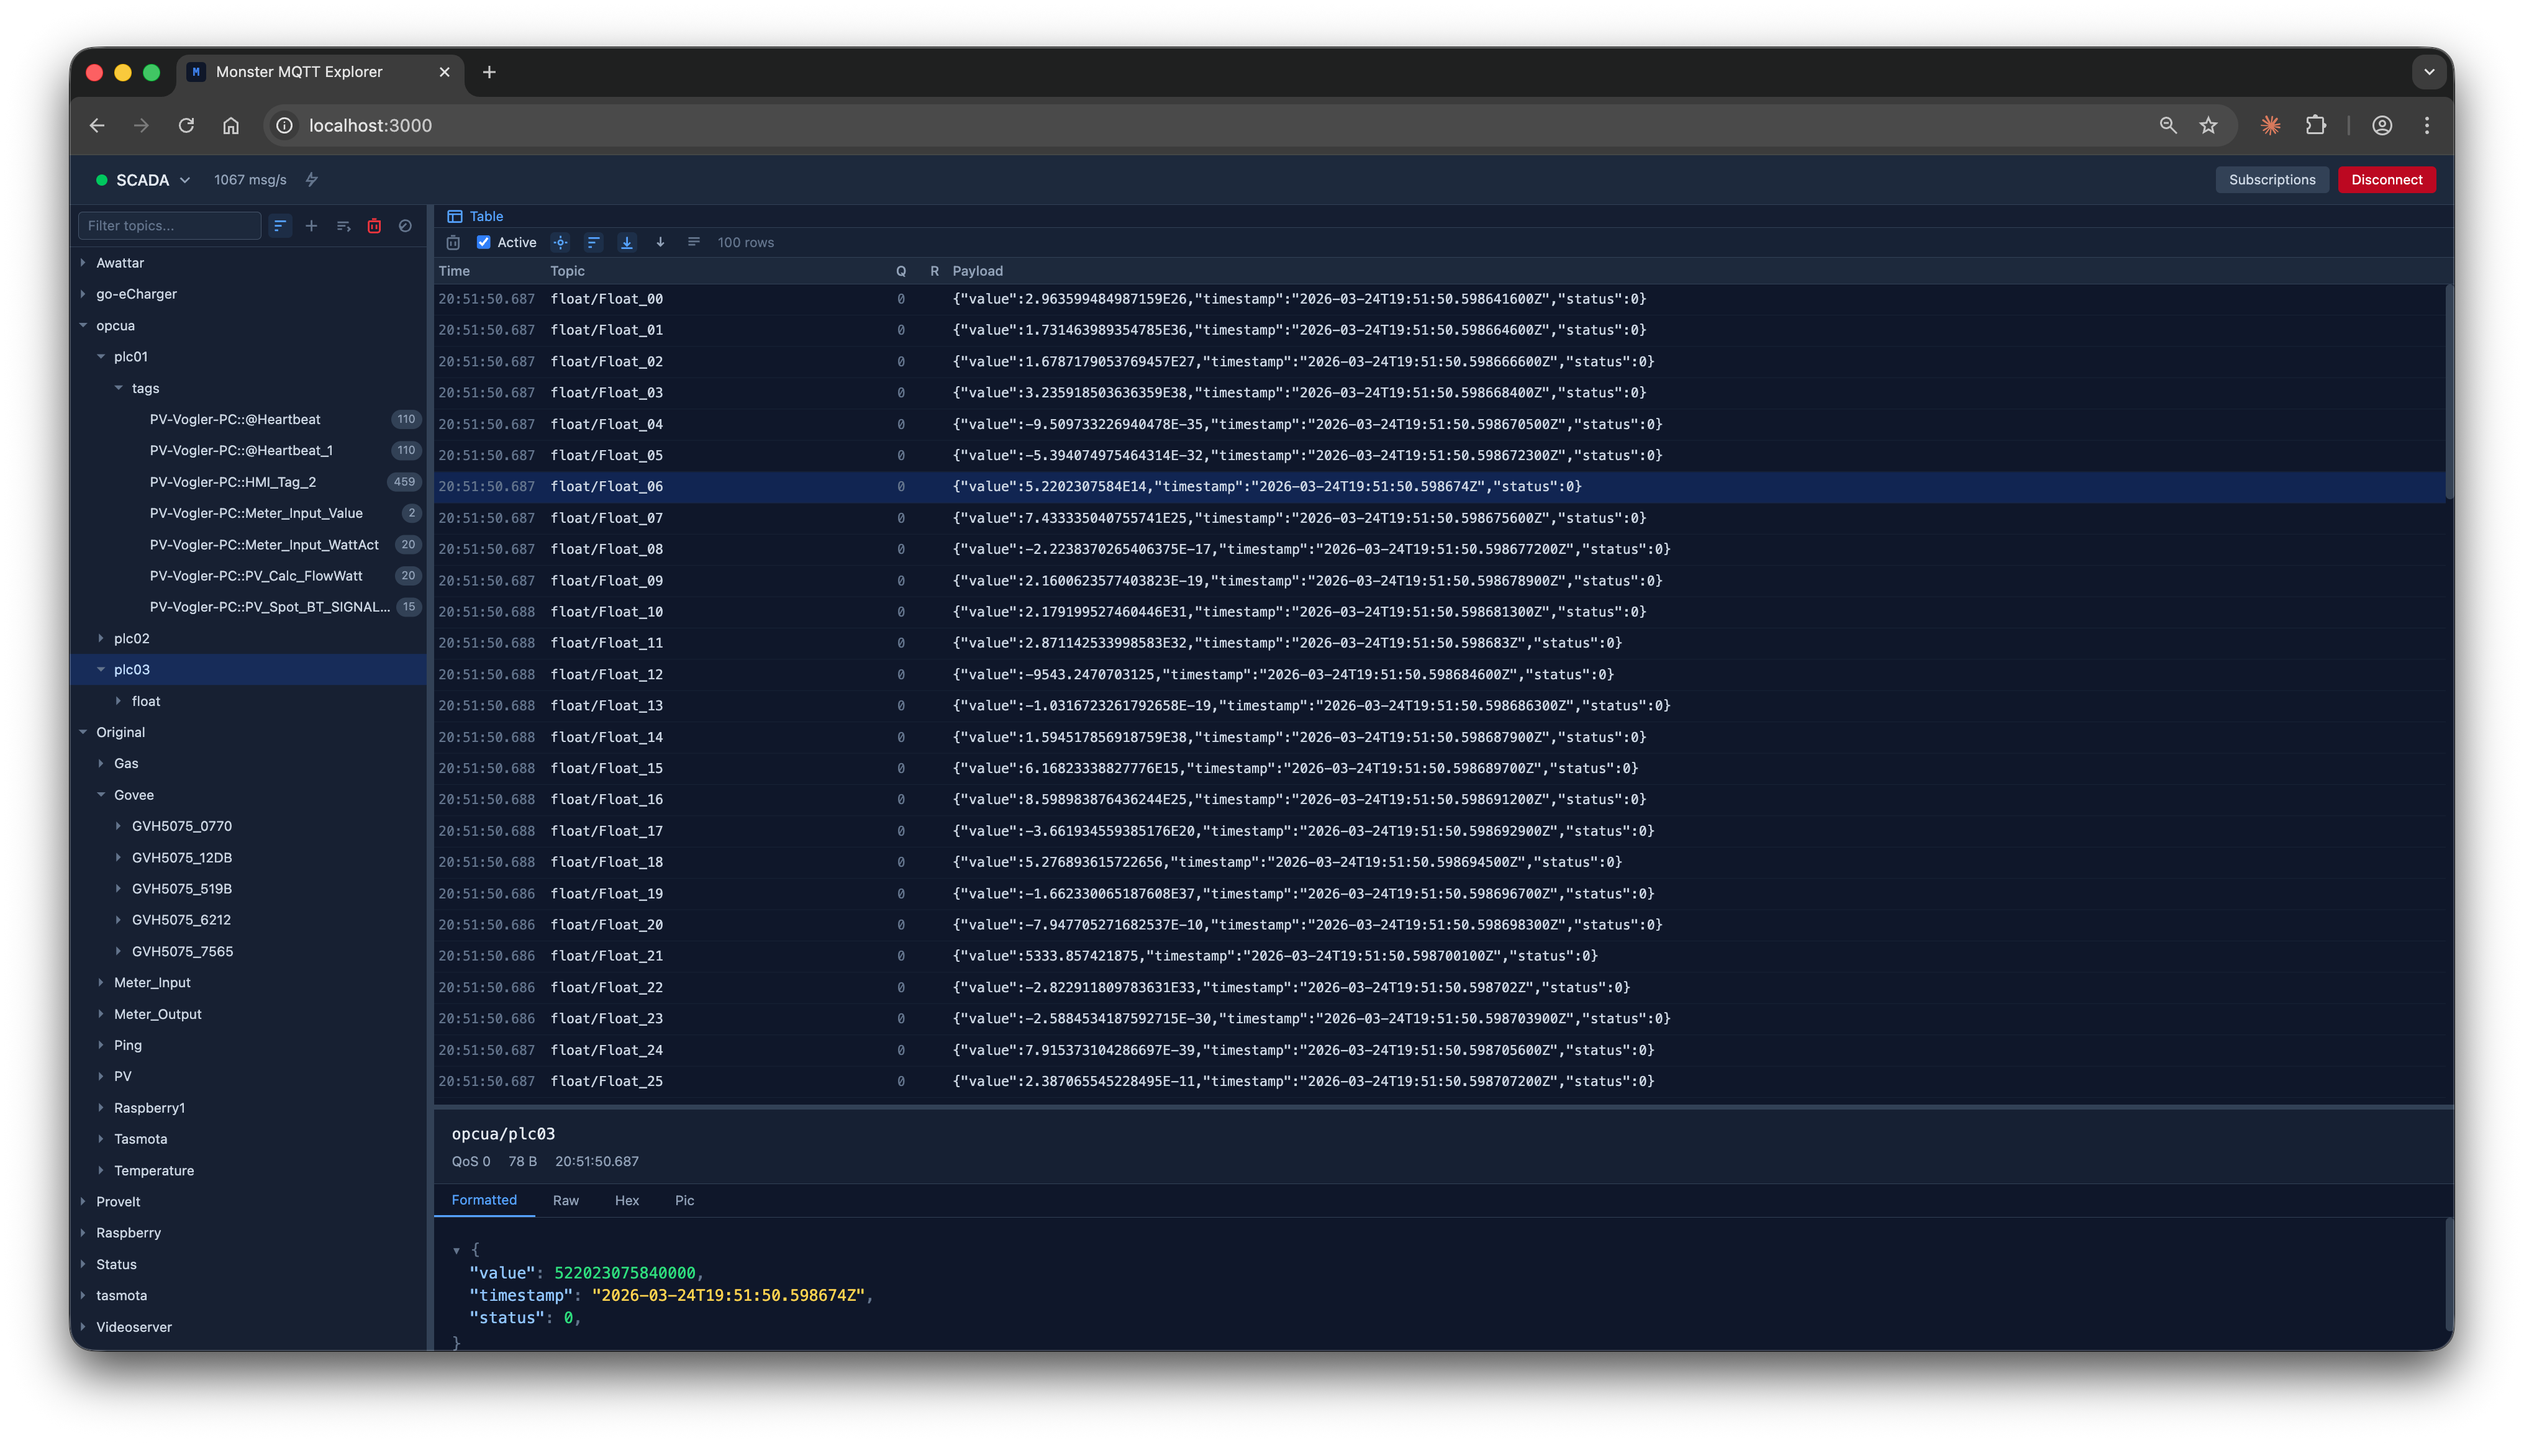
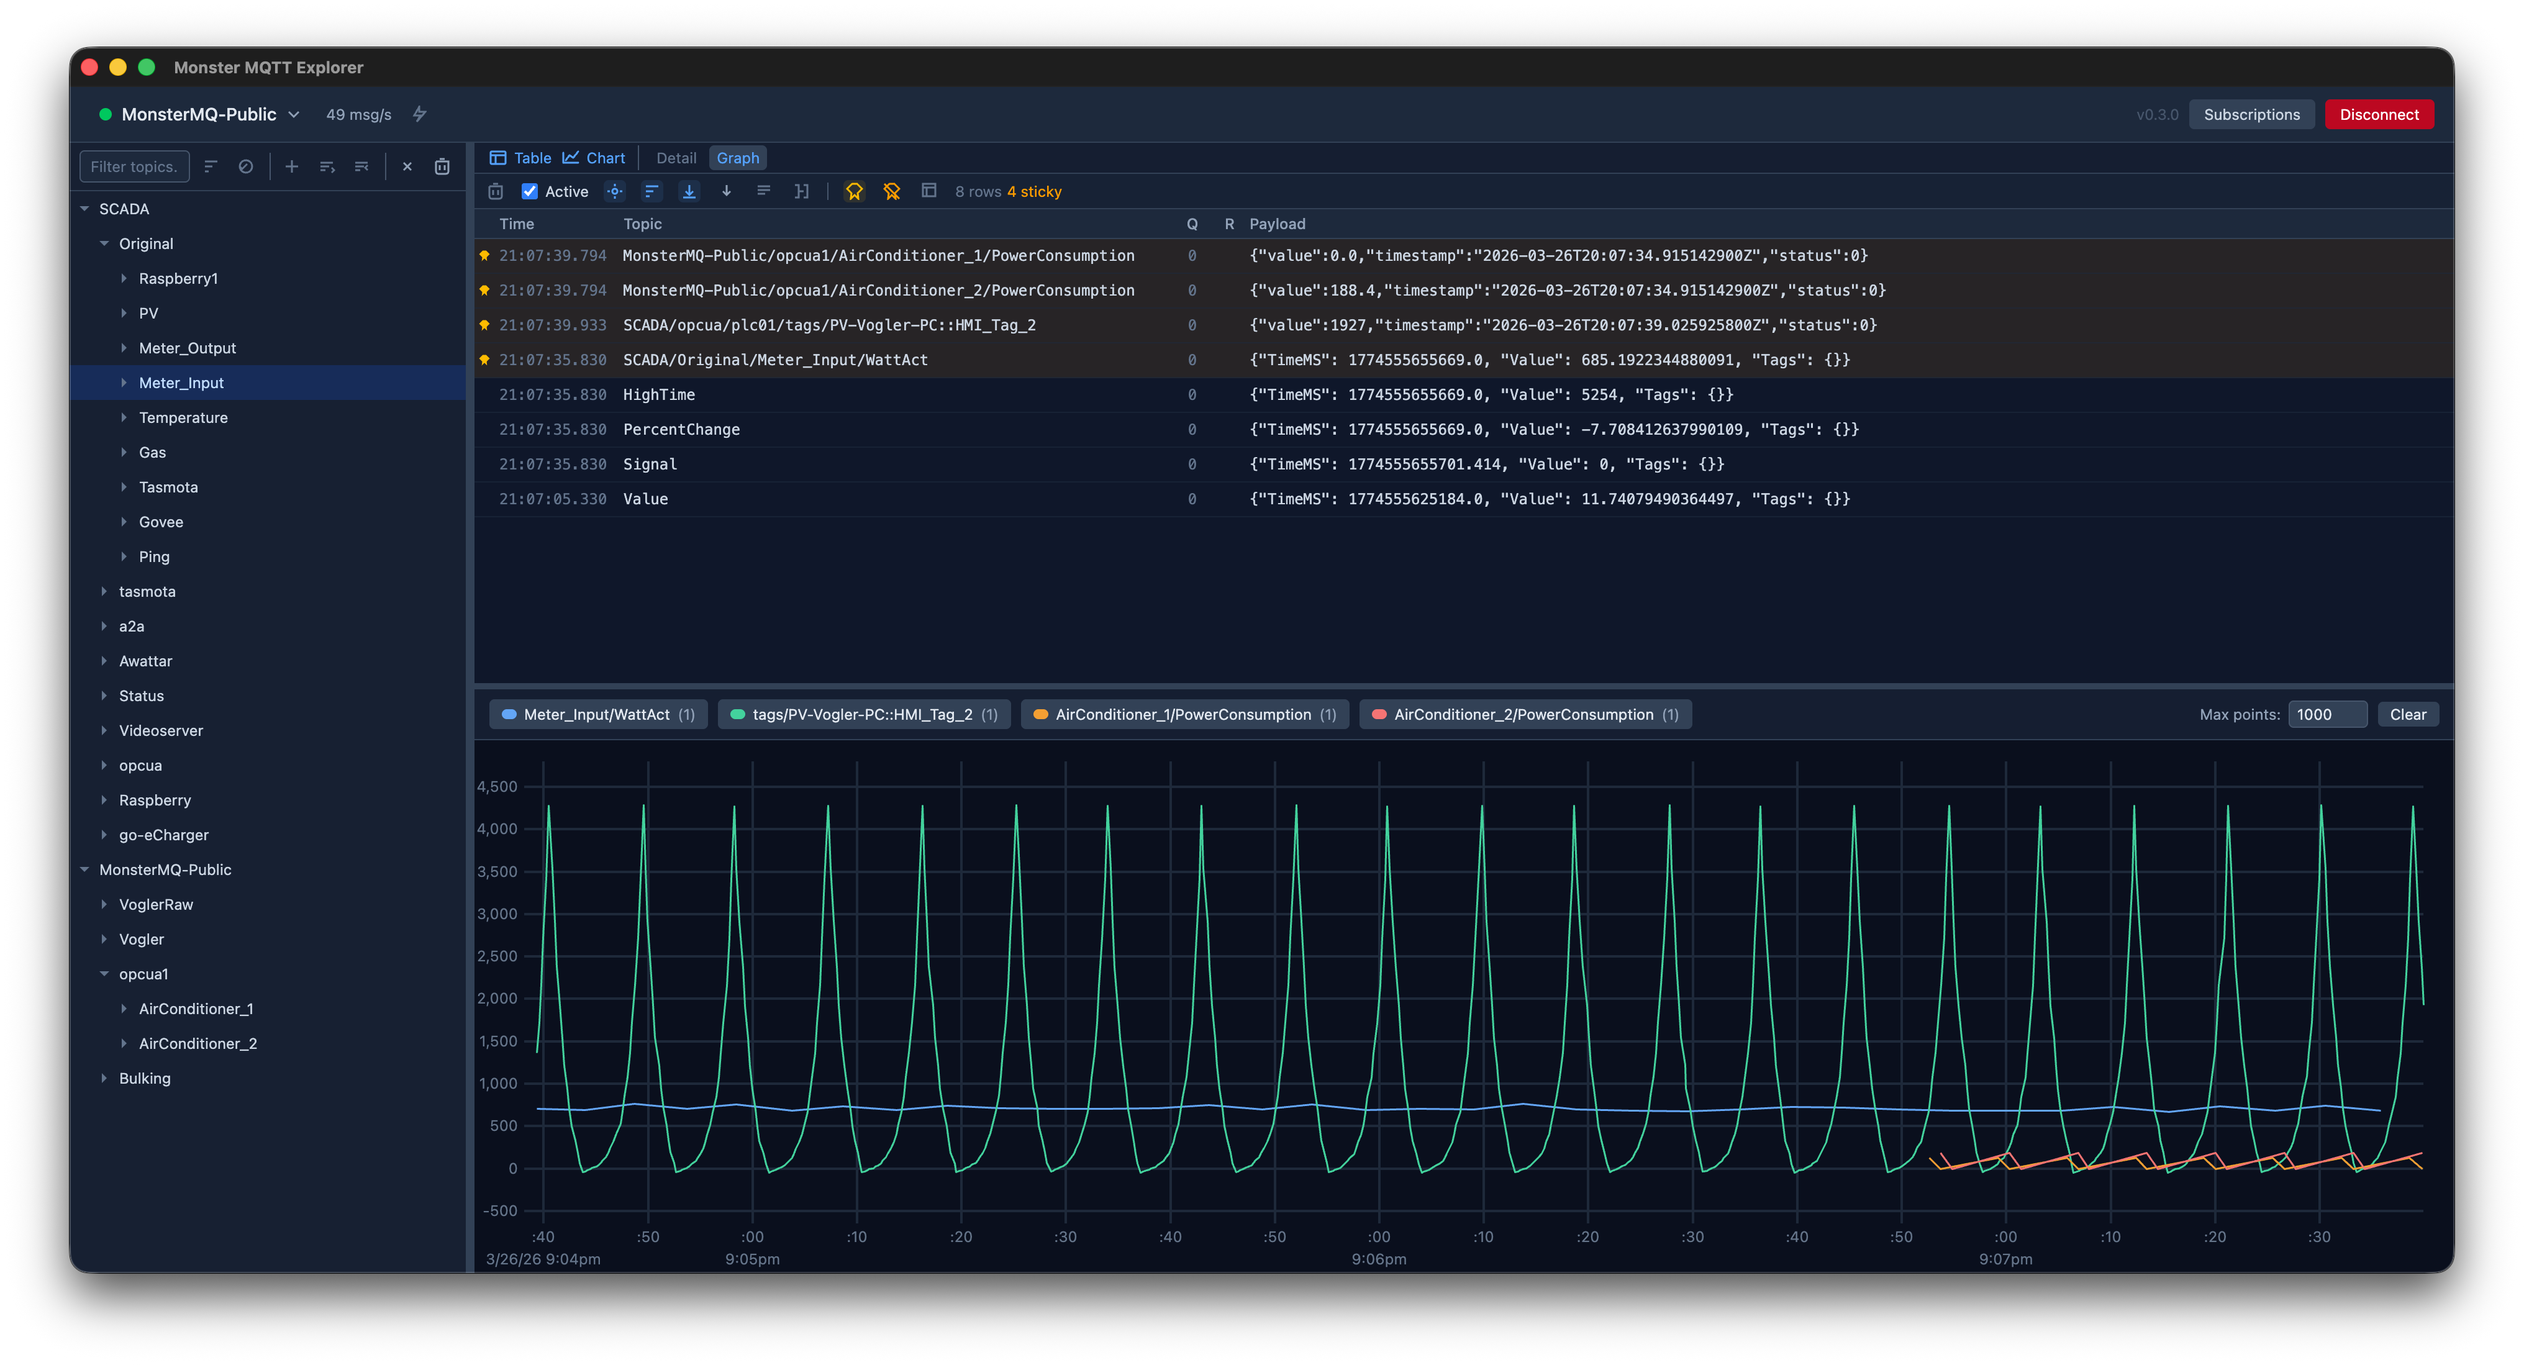
Update README.md

Changed region(s): [[0.0, 0.0309, 1.0, 0.9591], [0.9688, 0.8662, 1.0, 0.8972]]

diff --git a/README.md b/README.md
@@ -45,6 +45,15 @@ Inspect any message with multiple views:
 - **Hex** — byte-level inspection
 - **Pic** — render the payload as an image (JPEG, PNG, GIF, WebP, BMP). Live mode auto-updates as new frames arrive.
 
+### Real-Time Charting
+Pin topics from the message table and chart their values over time:
+- **Raw mode** — payload is a plain number, plotted directly
+- **Path mode** — pick one or more fields from a JSON payload to chart
+- Auto-detects a `value` field in JSON payloads
+- Per-topic color coding with config popover (mode switch, field checkboxes)
+- Configurable max data points, clear/restart without losing pinned topics
+- Switch between detail view and chart view while data collection continues
+
 ### Connection Management
 - Multiple saved connections
 - Quick-switch dropdown in the toolbar
